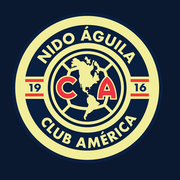
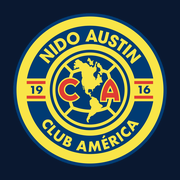
Add files via upload

diff --git a/components/Sidebar.tsx b/components/Sidebar.tsx
@@ -146,7 +146,7 @@ export default async function Sidebar({
       {/* ---------- Escritorio: barra lateral fija ---------- */}
       <div className="hidden md:flex md:w-[248px] md:shrink-0 h-full bg-sidebar border-r border-border box-border p-6 flex-col">
         <div className="flex items-center gap-2.5 mb-7 px-1">
-          <img src="/logo.png" alt="Nido Águila" className="w-[34px] h-[34px] rounded-full object-contain" />
+          <img src="/logo.png" alt="Nido Austin" className="w-[34px] h-[34px] rounded-full object-contain" />
           <div className="font-display text-lg font-bold tracking-wide">AguiVision</div>
         </div>
 
@@ -208,7 +208,7 @@ export default async function Sidebar({
       <div className="md:hidden fixed top-0 left-0 right-0 z-20 bg-sidebar border-b border-border box-border">
         <div className="flex items-center justify-between px-4 pt-3 pb-2">
           <div className="flex items-center gap-2">
-            <img src="/logo.png" alt="Nido Águila" className="w-[28px] h-[28px] rounded-full object-contain" />
+            <img src="/logo.png" alt="Nido Austin" className="w-[28px] h-[28px] rounded-full object-contain" />
             <div className="font-display text-base font-bold">AguiVision</div>
           </div>
           <div className="flex items-center gap-3">

diff --git a/components/ReceiptCard.tsx b/components/ReceiptCard.tsx
@@ -78,8 +78,7 @@ export default function ReceiptCard({ r }: { r: ReceiptData }) {
       <rect x="22" y="22" width="556" height="856" rx="26" fill="none" stroke={NAVY} strokeWidth="6" />
 
       {/* logo y encabezado */}
-      <circle cx="300" cy="150" r="70" fill={NAVY} />
-      <image href="/logo.png" x="234" y="84" width="132" height="132" clipPath="url(#logoClip)" preserveAspectRatio="xMidYMid slice" />
+      <image href="/logo.png" x="228" y="78" width="144" height="144" preserveAspectRatio="xMidYMid meet" />
       <text x="300" y="255" textAnchor="middle" fontSize="25" fontWeight="900" fill={NAVY} fontFamily={font}>AUSTIN TX</text>
       <text x="300" y="300" textAnchor="middle" fontSize="33" fontWeight="900" fontStyle="italic" fill={NAVY} fontFamily={font}>NIDO AGUILA USA AUSTIN</text>
       <text x="300" y="344" textAnchor="middle" fontSize="38" fontWeight="900" fontStyle="italic" fill="#8E9CA0" fontFamily={font} letterSpacing="2">RECEIPT</text>

diff --git a/components/RecibosShell.tsx b/components/RecibosShell.tsx
@@ -25,7 +25,7 @@ export default async function RecibosShell({
     <div className="min-h-screen bg-bg">
       <div className="no-print bg-sidebar border-b border-border">
         <div className="max-w-5xl mx-auto px-5 py-3 flex items-center gap-3">
-          <img src="/logo.png" alt="Nido Águila" className="w-[30px] h-[30px] rounded-full object-contain" />
+          <img src="/logo.png" alt="Nido Austin" className="w-[30px] h-[30px] rounded-full object-contain" />
           <div className="font-display text-base font-bold">AguiVision · Recibos</div>
           <div className="flex-grow" />
           {back && (

diff --git a/app/login/page.tsx b/app/login/page.tsx
@@ -75,7 +75,7 @@ function LoginForm() {
     <div className="min-h-screen bg-bg flex items-center justify-center p-6">
       <div className="w-full max-w-sm">
         <div className="flex flex-col items-center mb-8">
-          <img src="/logo.png" alt="Nido Águila" className="w-14 h-14 rounded-full object-contain mb-3" />
+          <img src="/logo.png" alt="Nido Austin" className="w-14 h-14 rounded-full object-contain mb-3" />
           <div className="font-display text-2xl font-bold text-text">AguiVision</div>
         </div>
 
